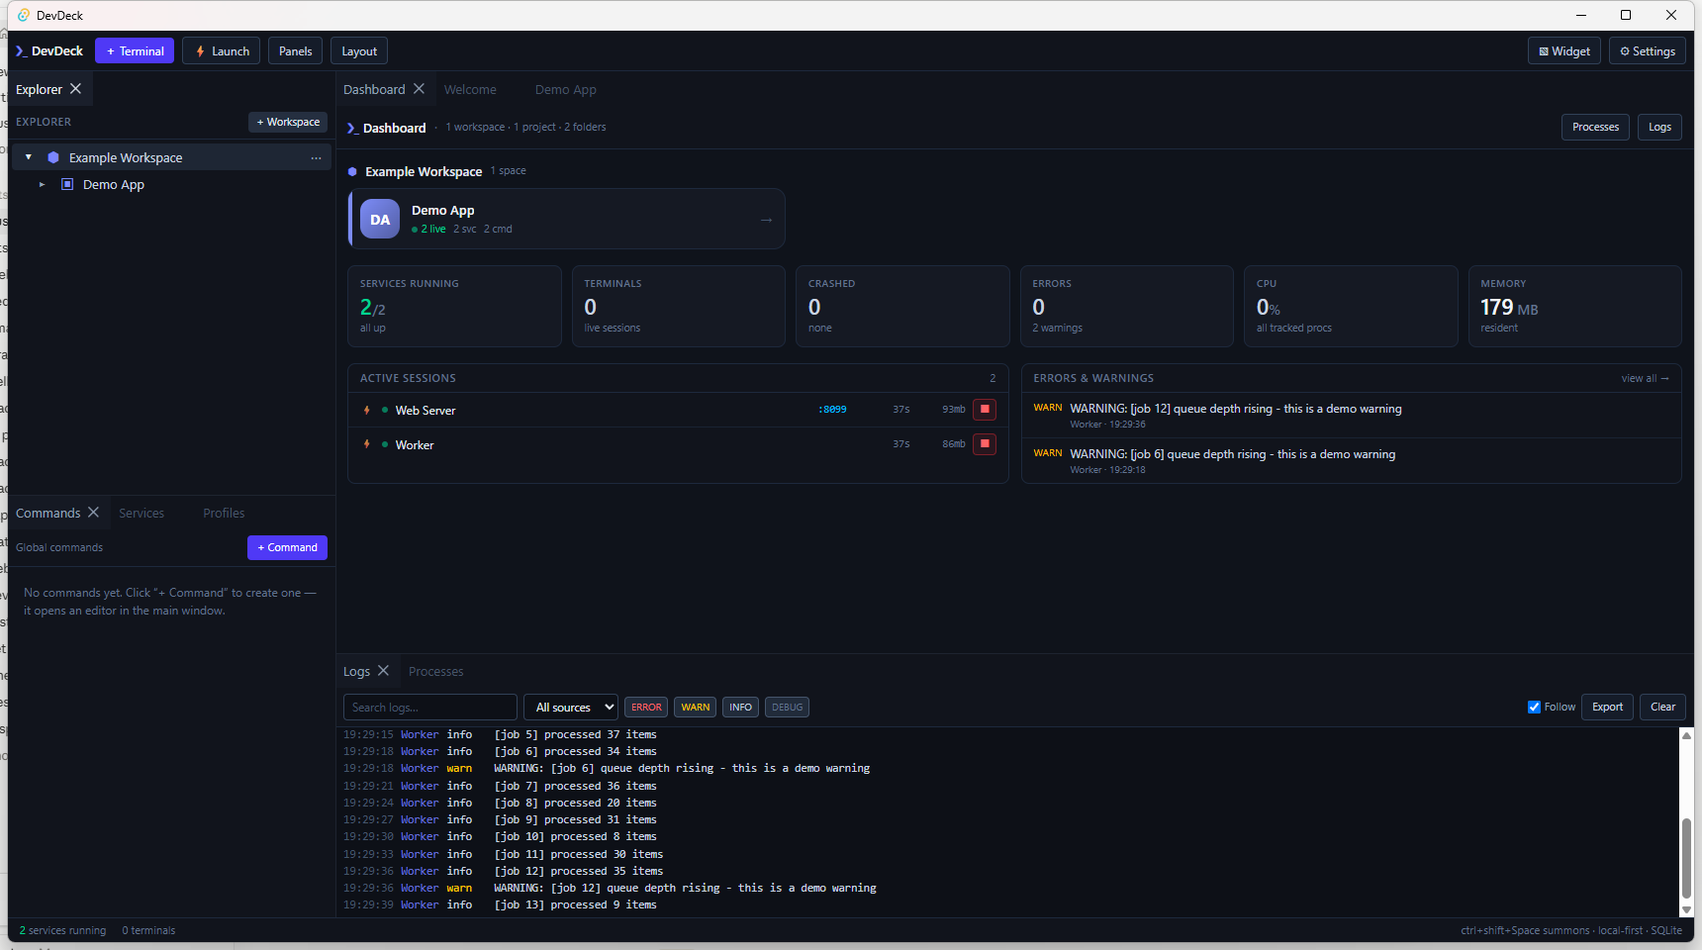
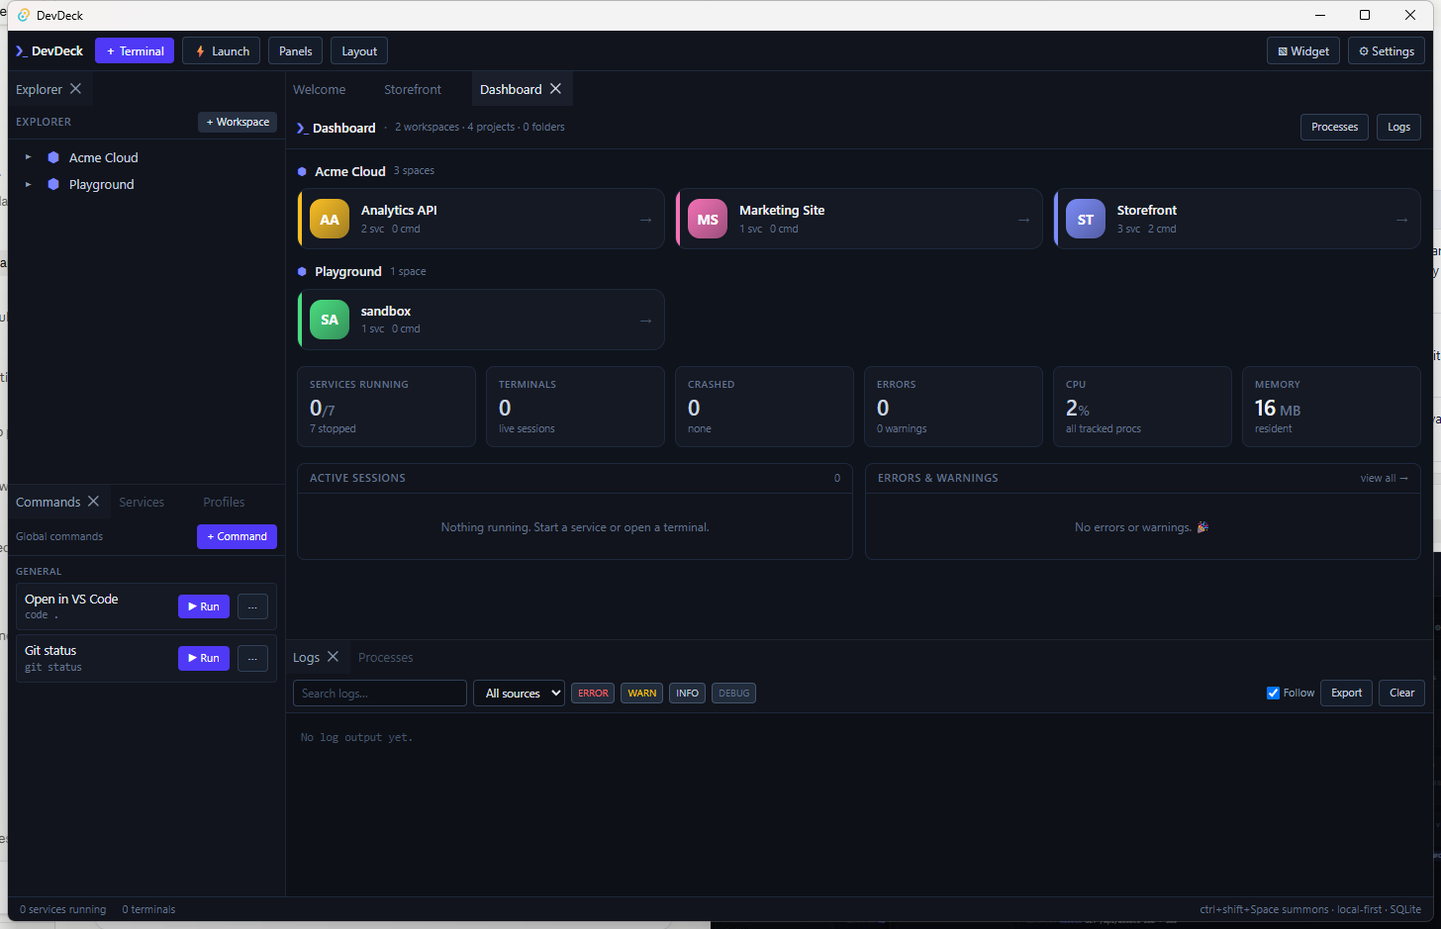
Website: replace demo data with generic Acme Cloud examples
Swap all x-platform references (TrackX, AssetX, SafeX, pnpm dev:*) for a
neutral real-world dataset: an "Acme Cloud" company with a Storefront
(Web/API/Worker), Marketing Site and Analytics API. Recapture the dashboard,
space page and widget screenshots from the app running on this demo data,
and update the animated demo + static mockup + alt text to match.

diff --git a/website/demo.html b/website/demo.html
@@ -184,7 +184,7 @@
 
     <div class="dock">
       <div class="dt">Welcome</div>
-      <div class="dt" id="dt-trackx">TrackX <span class="x">✕</span></div>
+      <div class="dt" id="dt-trackx">Storefront <span class="x">✕</span></div>
       <div class="dt act" id="dt-dash">Dashboard <span class="x">✕</span></div>
     </div>
 
@@ -192,9 +192,10 @@
       <div class="left">
         <div class="lp">
           <div class="lph"><span class="t">Explorer</span><span class="addbtn">+ Workspace</span></div>
-          <div class="node"><span style="color:#556;font-size:10px">▾</span><span class="sw"></span>Local Dev</div>
-          <div class="node" style="padding-left:20px"><span style="color:#556;font-size:10px">▸</span><span class="sw" style="background:#f5b63d"></span>TrackX</div>
-          <div class="node" style="padding-left:20px"><span style="color:#556;font-size:10px">▸</span><span class="sw" style="background:#7C8CF8"></span>paperclip-v3-phase-2</div>
+          <div class="node"><span style="color:#556;font-size:10px">▾</span><span class="sw"></span>Acme Cloud</div>
+          <div class="node" style="padding-left:20px"><span style="color:#556;font-size:10px">▸</span><span class="sw" style="background:#7C8CF8"></span>Storefront</div>
+          <div class="node" style="padding-left:20px"><span style="color:#556;font-size:10px">▸</span><span class="sw" style="background:#F472B6"></span>Marketing Site</div>
+          <div class="node" style="padding-left:20px"><span style="color:#556;font-size:10px">▸</span><span class="sw" style="background:#FBBF24"></span>Analytics API</div>
         </div>
         <div class="lpanels">
           <div class="ltabs"><span class="a">Commands</span><span>Services</span><span>Profiles</span></div>
@@ -214,14 +215,14 @@
         <div class="main">
           <!-- Dashboard -->
           <div class="screen on" id="scr-dash">
-            <div class="dhead"><b>❯ Dashboard</b><span class="sub">· 1 workspace · 2 projects · 1 folder</span><span class="r"><span>Processes</span><span>Logs</span></span></div>
-            <p class="lbl"><span class="sw" style="width:9px;height:9px;border-radius:50%;background:#7C8CF8"></span>Local Dev · 2 spaces</p>
+            <div class="dhead"><b>❯ Dashboard</b><span class="sub">· 2 workspaces · 4 projects</span><span class="r"><span>Processes</span><span>Logs</span></span></div>
+            <p class="lbl"><span class="sw" style="width:9px;height:9px;border-radius:50%;background:#7C8CF8"></span>Acme Cloud · 3 spaces</p>
             <div class="spaces">
-              <div class="space hi" id="sp-trackx"><div class="av" style="background:linear-gradient(150deg,#f7c948,#e8951f)">TR</div><div><h4>TrackX <span class="badge">★ MOST USED</span></h4><p>9 svc · 1 cmd</p></div><span class="ar">→</span></div>
-              <div class="space"><div class="av" style="background:linear-gradient(150deg,#8b8bf5,#5b57d8);color:#fff">PV</div><div><h4>paperclip-v3-phase-2</h4><p>1 svc · 0 cmd</p></div><span class="ar">→</span></div>
+              <div class="space hi" id="sp-trackx"><div class="av" style="background:linear-gradient(150deg,#8b8bf5,#5b57d8);color:#fff">ST</div><div><h4>Storefront <span class="badge">★ MOST USED</span></h4><p>3 svc · 2 cmd</p></div><span class="ar">→</span></div>
+              <div class="space"><div class="av" style="background:linear-gradient(150deg,#f7c948,#e8951f)">AA</div><div><h4>Analytics API</h4><p>2 svc · 0 cmd</p></div><span class="ar">→</span></div>
             </div>
             <div class="stats">
-              <div class="stat"><div class="k">Services running</div><div class="v" id="dst-run">0<small>/10</small></div><div class="s" id="dst-runs">10 stopped</div></div>
+              <div class="stat"><div class="k">Services running</div><div class="v" id="dst-run">0<small>/7</small></div><div class="s" id="dst-runs">7 stopped</div></div>
               <div class="stat"><div class="k">Terminals</div><div class="v">0</div><div class="s">live sessions</div></div>
               <div class="stat"><div class="k">Crashed</div><div class="v">0</div><div class="s">none</div></div>
               <div class="stat"><div class="k">Errors</div><div class="v">0</div><div class="s">0 warnings</div></div>
@@ -231,8 +232,8 @@
             <div class="panels2">
               <div class="pnl"><div class="h"><span>Active sessions</span><span id="dst-cnt">0</span></div>
                 <div id="dsempty" class="empty">Nothing running. Start a service or open a terminal.</div>
-                <div class="sess" id="dss1"><span class="wdot g"></span><span style="font-size:12px;font-weight:600">AssetX</span><span style="font-size:10.5px;color:#f5b63d">TrackX</span><span class="chip" style="margin-left:auto"><span class="d"></span>:3001</span></div>
-                <div class="sess" id="dss2"><span class="wdot g"></span><span style="font-size:12px;font-weight:600">TrackX Config</span><span style="font-size:10.5px;color:#f5b63d">TrackX</span><span class="chip" style="margin-left:auto"><span class="d"></span>:8080</span></div>
+                <div class="sess" id="dss1"><span class="wdot g"></span><span style="font-size:12px;font-weight:600">Web</span><span style="font-size:10.5px;color:#7C8CF8">Storefront</span><span class="chip" style="margin-left:auto"><span class="d"></span>:3000</span></div>
+                <div class="sess" id="dss2"><span class="wdot g"></span><span style="font-size:12px;font-weight:600">API</span><span style="font-size:10.5px;color:#7C8CF8">Storefront</span><span class="chip" style="margin-left:auto"><span class="d"></span>:4000</span></div>
               </div>
               <div class="pnl"><div class="h"><span>Errors &amp; warnings</span><span>view all</span></div><div class="empty">No errors or warnings 🎉</div></div>
             </div>
@@ -240,22 +241,20 @@
 
           <!-- Space page -->
           <div class="screen" id="scr-space">
-            <div class="shead"><div class="av">TR</div><div><div class="ey">TrackX</div><h3>TrackX</h3><div class="pa mono">c:\code\trackx\x-platform ✎</div></div>
+            <div class="shead"><div class="av" style="background:linear-gradient(150deg,#8b8bf5,#5b57d8)">ST</div><div><div class="ey">Storefront</div><h3>Storefront</h3><div class="pa mono">C:/code/acme-cloud/storefront ✎</div></div>
               <div class="r"><span class="sbtn">❯ Terminal</span><span class="sbtn gold" id="startall">▶ Start all</span><span class="sbtn">⚙ Setup</span></div></div>
             <div class="spills">
-              <div class="spill"><div class="v" id="sp-run">0<small>/9</small></div><div class="k">Running</div></div>
-              <div class="spill"><div class="v">9</div><div class="k">Services</div></div>
-              <div class="spill"><div class="v">1</div><div class="k">Commands</div></div>
+              <div class="spill"><div class="v" id="sp-run">0<small>/3</small></div><div class="k">Running</div></div>
+              <div class="spill"><div class="v">3</div><div class="k">Services</div></div>
+              <div class="spill"><div class="v">2</div><div class="k">Commands</div></div>
               <div class="spill"><div class="v">0</div><div class="k">Profiles</div></div>
-              <div class="spill"><div class="v">1</div><div class="k">Folders</div></div>
+              <div class="spill"><div class="v">0</div><div class="k">Folders</div></div>
               <div class="spill"><div class="v" id="sp-sess">0</div><div class="k">Sessions</div></div>
             </div>
-            <div class="stabs"><span class="a">Services 9</span><span>Commands 1</span><span>Profiles 0</span></div>
-            <div class="svc" id="sv0"><span class="ck"></span><span class="sd"></span><div><div class="nm">AssetX (web-app)</div><div class="cmd mono">pnpm dev:assetx</div></div><span class="act">▶ Start</span></div>
-            <div class="svc" id="sv1"><span class="ck"></span><span class="sd"></span><div><div class="nm">SafeX (web-app)</div><div class="cmd mono">pnpm dev:safex</div></div><span class="act">▶ Start</span></div>
-            <div class="svc" id="sv2"><span class="ck"></span><span class="sd"></span><div><div class="nm">TrackX Config</div><div class="cmd mono">pnpm dev:trackx</div></div><span class="act">▶ Start</span></div>
-            <div class="svc" id="sv3"><span class="ck"></span><span class="sd"></span><div><div class="nm">TrackX CRM</div><div class="cmd mono">pnpm dev:crm</div></div><span class="act">▶ Start</span></div>
-            <div class="svc" id="sv4"><span class="ck"></span><span class="sd"></span><div><div class="nm">TrackX Admin</div><div class="cmd mono">pnpm dev:admin</div></div><span class="act">▶ Start</span></div>
+            <div class="stabs"><span class="a">Services 3</span><span>Commands 2</span><span>Profiles 0</span></div>
+            <div class="svc" id="sv0"><span class="ck"></span><span class="sd"></span><div><div class="nm">Web</div><div class="cmd mono">npm run dev</div></div><span class="act">▶ Start</span></div>
+            <div class="svc" id="sv1"><span class="ck"></span><span class="sd"></span><div><div class="nm">API</div><div class="cmd mono">npm run dev:api</div></div><span class="act">▶ Start</span></div>
+            <div class="svc" id="sv2"><span class="ck"></span><span class="sd"></span><div><div class="nm">Worker</div><div class="cmd mono">npm run worker</div></div><span class="act">▶ Start</span></div>
           </div>
         </div>
 
@@ -264,11 +263,11 @@
             <span class="ldtools"><span class="pill2" style="background:rgba(248,113,113,.18);color:#F87171">ERROR</span><span class="pill2" style="background:rgba(251,191,36,.18);color:#FBBF24">WARN</span><span class="pill2" style="background:rgba(109,106,240,.18);color:#b9c0ff">INFO</span><span style="font-size:10.5px;color:#647089">☑ Follow</span></span></div>
           <div class="logbody" id="logbody">
             <div id="logempty" style="color:#647089">No log output yet.</div>
-            <div class="lg" id="l0"><span class="t">12:04:01</span> <span class="s" style="color:#7C8CF8">AssetX</span>  server listening on :3001</div>
-            <div class="lg" id="l1"><span class="t">12:04:02</span> <span class="s" style="color:#4ADE80">Config</span>  loaded 42 keys from config store</div>
-            <div class="lg" id="l2"><span class="t">12:04:03</span> <span class="s" style="color:#7C8CF8">AssetX</span>  GET /api/assets 200 · 14ms</div>
-            <div class="lg" id="l3"><span class="t">12:04:05</span> <span class="s" style="color:#FBBF24">SafeX</span>   <span class="warn">warn: token cache miss, refetching</span></div>
-            <div class="lg" id="l4"><span class="t">12:04:06</span> <span class="s" style="color:#7C8CF8">AssetX</span>  GET /api/assets 200 · 9ms</div>
+            <div class="lg" id="l0"><span class="t">12:04:01</span> <span class="s" style="color:#7C8CF8">Web</span>     ready on http://localhost:3000</div>
+            <div class="lg" id="l1"><span class="t">12:04:02</span> <span class="s" style="color:#4ADE80">API</span>     listening on :4000</div>
+            <div class="lg" id="l2"><span class="t">12:04:03</span> <span class="s" style="color:#7C8CF8">Web</span>     GET /api/products 200 · 14ms</div>
+            <div class="lg" id="l3"><span class="t">12:04:05</span> <span class="s" style="color:#FBBF24">Worker</span>  <span class="warn">warn: queue depth rising (42)</span></div>
+            <div class="lg" id="l4"><span class="t">12:04:06</span> <span class="s" style="color:#7C8CF8">Web</span>     GET /api/products 200 · 9ms</div>
           </div>
         </div>
       </div>
@@ -280,10 +279,10 @@
     <div class="kbd" id="kbd"><kbd>Ctrl</kbd>+<kbd>Shift</kbd>+<kbd>Space</kbd></div>
     <div class="toast" id="toast"><span class="d"></span><span id="toasttxt">Detected vite on :5173</span></div>
     <div class="widget" id="widget">
-      <div class="whead"><div class="wb">▢</div><div class="wt"><b>Sessions</b><span id="wcount">3 running</span></div><div class="wb a">⤢</div></div>
+      <div class="whead"><div class="wb">▢</div><div class="wt"><b>Sessions</b><span id="wcount">2 running</span></div><div class="wb a">⤢</div></div>
       <div class="wbody">
-        <div class="wcard" id="w0" style="box-shadow:inset 3px 0 0 #f5b63d"><div class="mn"><div class="wr1"><span class="wdot g"></span><span class="wnm">AssetX</span><span class="wup">12m</span></div><div class="wr2"><span style="color:#f5b63d;font-weight:600">TrackX</span><span class="chip"><span class="d"></span>:3001</span><span style="color:#647089">2%</span></div></div><div style="display:flex;gap:4px"><span class="wact">🌐</span><span class="wact" style="color:#F87171;background:rgba(248,113,113,.14)">■</span></div></div>
-        <div class="wcard" id="w1" style="box-shadow:inset 3px 0 0 #7C8CF8"><div class="mn"><div class="wr1"><span class="wdot g"></span><span class="wnm">TrackX Config</span><span class="wup">11m</span></div><div class="wr2"><span style="color:#7C8CF8;font-weight:600">TrackX</span><span class="chip"><span class="d"></span>:8080</span><span style="color:#647089">1%</span></div></div><div style="display:flex;gap:4px"><span class="wact">🌐</span><span class="wact" style="color:#F87171;background:rgba(248,113,113,.14)">■</span></div></div>
+        <div class="wcard" id="w0" style="box-shadow:inset 3px 0 0 #7C8CF8"><div class="mn"><div class="wr1"><span class="wdot g"></span><span class="wnm">Web</span><span class="wup">12m</span></div><div class="wr2"><span style="color:#7C8CF8;font-weight:600">Storefront</span><span class="chip"><span class="d"></span>:3000</span><span style="color:#647089">2%</span></div></div><div style="display:flex;gap:4px"><span class="wact">🌐</span><span class="wact" style="color:#F87171;background:rgba(248,113,113,.14)">■</span></div></div>
+        <div class="wcard" id="w1" style="box-shadow:inset 3px 0 0 #7C8CF8"><div class="mn"><div class="wr1"><span class="wdot g"></span><span class="wnm">API</span><span class="wup">11m</span></div><div class="wr2"><span style="color:#7C8CF8;font-weight:600">Storefront</span><span class="chip"><span class="d"></span>:4000</span><span style="color:#647089">1%</span></div></div><div style="display:flex;gap:4px"><span class="wact">🌐</span><span class="wact" style="color:#F87171;background:rgba(248,113,113,.14)">■</span></div></div>
         <div class="uhead" id="uhead"><b>Unassigned</b><span class="ln"></span><span style="font-size:9.5px;color:#647089">1</span></div>
         <div class="wcard det" id="w2" style="box-shadow:inset 3px 0 0 #38BDF8"><div class="mn"><div class="wr1"><span class="wdot d"></span><span class="wnm">web-app</span><span class="wup">6s</span></div><div class="wr2"><span style="color:#38BDF8;font-weight:600">vite</span><span class="mono" style="color:#8b93a1">:5173</span><span class="chip" style="background:rgba(56,189,248,.16);color:#38BDF8">→ web-app</span></div></div><div style="display:flex;gap:4px"><span class="wact">🌐</span><span class="wact">❯</span></div></div>
       </div>
@@ -308,9 +307,9 @@
   function reset(){
     timers.forEach(clearTimeout);timers=[];
     screen('scr-dash');tab('dash');
-    for(var i=0;i<5;i++){$('sv'+i).classList.remove('run');$('sv'+i).querySelector('.act').textContent='▶ Start'}
-    $('sp-run').innerHTML='0<small>/9</small>';$('sp-sess').textContent='0';
-    $('dst-run').innerHTML='0<small>/10</small>';$('dst-runs').textContent='10 stopped';$('dst-cpu').innerHTML='0<small>%</small>';$('dst-mem').innerHTML='16<small>MB</small>';$('dst-cnt').textContent='0';$('st-run').textContent='0';
+    for(var i=0;i<3;i++){$('sv'+i).classList.remove('run');$('sv'+i).querySelector('.act').textContent='▶ Start'}
+    $('sp-run').innerHTML='0<small>/3</small>';$('sp-sess').textContent='0';
+    $('dst-run').innerHTML='0<small>/7</small>';$('dst-runs').textContent='7 stopped';$('dst-cpu').innerHTML='0<small>%</small>';$('dst-mem').innerHTML='16<small>MB</small>';$('dst-cnt').textContent='0';$('st-run').textContent='0';
     $('dsempty').style.display='block';off('dss1');off('dss2');
     ['l0','l1','l2','l3','l4'].forEach(off);$('logempty').style.display='block';
     ['w0','w1','w2','uhead'].forEach(off);$('widget').classList.remove('on');$('toast').classList.remove('on');$('kbd').classList.remove('on');$('scrim').classList.remove('on');
@@ -321,7 +320,7 @@
     setCap('Your whole stack in one window','Every service, terminal and command — organised');
     at(300,function(){mc($('sp-trackx'))});
 
-    // open TrackX space
+    // open the Storefront space
     at(2600,function(){setCap('Open a space','Its services, commands and profiles in one place')});
     at(2800,function(){$('sp-trackx').style.transform='scale(.99)'});
     at(3050,function(){$('sp-trackx').style.transform='';screen('scr-space');tab('trackx');mc($('startall'))});
@@ -330,17 +329,17 @@
     at(4400,function(){setCap('Start the whole stack in one click','No six-terminal morning')});
     at(4600,function(){$('startall').style.transform='scale(.95)'});
     at(4820,function(){$('startall').style.transform=''});
-    var names=[0,1,2,3,4];
-    names.forEach(function(i,k){at(4900+k*360,function(){
+    var names=[0,1,2];
+    names.forEach(function(i,k){at(4900+k*380,function(){
       var s=$('sv'+i);s.classList.add('run');s.querySelector('.act').textContent='■ Stop';
-      var n=k+1;$('sp-run').innerHTML=n+'<small>/9</small>';$('sp-sess').textContent=n;$('st-run').textContent=n;
+      var n=k+1;$('sp-run').innerHTML=n+'<small>/3</small>';$('sp-sess').textContent=n;$('st-run').textContent=n;
     })});
     at(6800,function(){$('logempty').style.display='none';['l0','l1','l2','l3','l4'].forEach(function(id,k){at(k*260,function(){on(id)})})});
 
     // back to dashboard - live stats
     at(8600,function(){setCap('Live status across everything','CPU, memory, health, uptime — at a glance')});
     at(8800,function(){screen('scr-dash');tab('dash');mc($('dt-dash'));
-      $('dst-run').innerHTML='5<small>/10</small>';$('dst-runs').textContent='5 running';$('dst-cpu').innerHTML='12<small>%</small>';$('dst-mem').innerHTML='840<small>MB</small>';$('dst-cnt').textContent='2';
+      $('dst-run').innerHTML='3<small>/7</small>';$('dst-runs').textContent='3 running';$('dst-cpu').innerHTML='9<small>%</small>';$('dst-mem').innerHTML='612<small>MB</small>';$('dst-cnt').textContent='2';
       $('dsempty').style.display='none';on('dss1');at(180,function(){on('dss2')})});
 
     // widget
@@ -352,7 +351,7 @@
     // detect
     at(13900,function(){setCap('It catches servers you start elsewhere','A vite dev server — detected automatically')});
     at(14200,function(){$('toast').classList.add('on')});
-    at(14500,function(){on('uhead');on('w2');$('wcount').textContent='3 running · 1 detected'});
+    at(14500,function(){on('uhead');on('w2');$('wcount').textContent='2 running · 1 detected'});
     at(15900,function(){$('toast').classList.remove('on');mc($('w2'),88,-6)});
 
     at(16800,function(){setCap('One window. Everything running.','DevDeck — free & open source')});

diff --git a/website/index.html b/website/index.html
@@ -232,7 +232,7 @@
 
       <div class="shot">
         <div class="bar"><i></i><i></i><i></i><span>DevDeck — Dashboard</span></div>
-        <img src="assets/dashboard.png" alt="DevDeck dashboard showing the example workspace with two services running, live active sessions and a warnings feed" />
+        <img src="assets/dashboard.png" alt="DevDeck dashboard showing the Acme Cloud workspace with its spaces — Storefront, Marketing Site and Analytics API — plus live status cards" />
       </div>
     </div>
   </div>
@@ -336,7 +336,7 @@
       </div>
       <div class="shot" style="margin-top:0">
         <div class="bar"><i></i><i></i><i></i><span>Space — Demo App</span></div>
-        <img src="assets/space-running.png" alt="DevDeck space page for Demo App with both services running and live logs streaming" />
+        <img src="assets/space-running.png" alt="DevDeck space page for Storefront with its Web, API and Worker services and a Start all button" />
       </div>
     </div>
   </section>
@@ -361,7 +361,7 @@
       </div>
       <div class="shot" style="margin-top:0">
         <div class="bar"><i></i><i></i><i></i><span>Command Widget</span></div>
-        <img src="assets/widget-over-app.png" alt="The DevDeck command widget floating on top of the main window, showing two running services" />
+        <img src="assets/widget-over-app.png" alt="The DevDeck command widget floating over the app, showing a searchable palette of the Acme Cloud commands and services" />
       </div>
     </div>
   </section>
@@ -396,8 +396,8 @@
 
             <div style="display:flex;align-items:center;gap:9px;padding:9px 10px 9px 12px;border-radius:12px;background:rgba(255,255,255,0.03);border:1px solid rgba(255,255,255,0.07);box-shadow:inset 3px 0 0 #7C8CF8">
               <div style="flex:1;min-width:0;display:flex;flex-direction:column;gap:4px">
-                <div style="display:flex;align-items:center;gap:6px"><span class="dot" style="width:8px;height:8px"></span><span style="font-weight:600;color:#E7EAF0">AssetX</span><span style="flex:1"></span><span class="mono" style="font-size:12px;color:#8b93a1">12m</span></div>
-                <div style="display:flex;align-items:center;gap:7px;font-size:12px"><span style="font-weight:600;color:#7C8CF8">TrackX</span><span style="display:inline-flex;align-items:center;gap:4px;padding:1px 6px;border-radius:5px;background:rgba(74,222,128,0.14);color:#4ADE80;font-size:11px;font-weight:600"><span style="width:5px;height:5px;border-radius:50%;background:#4ADE80"></span>:3001</span><span style="color:#64748b">2%</span><span style="color:#64748b">96MB</span></div>
+                <div style="display:flex;align-items:center;gap:6px"><span class="dot" style="width:8px;height:8px"></span><span style="font-weight:600;color:#E7EAF0">Web</span><span style="flex:1"></span><span class="mono" style="font-size:12px;color:#8b93a1">12m</span></div>
+                <div style="display:flex;align-items:center;gap:7px;font-size:12px"><span style="font-weight:600;color:#7C8CF8">Storefront</span><span style="display:inline-flex;align-items:center;gap:4px;padding:1px 6px;border-radius:5px;background:rgba(74,222,128,0.14);color:#4ADE80;font-size:11px;font-weight:600"><span style="width:5px;height:5px;border-radius:50%;background:#4ADE80"></span>:3000</span><span style="color:#64748b">2%</span><span style="color:#64748b">96MB</span></div>
               </div>
               <div style="display:flex;gap:5px"><span style="width:26px;height:26px;border-radius:8px;background:rgba(255,255,255,0.05);display:flex;align-items:center;justify-content:center;color:#9BA3B2">🌐</span><span style="width:26px;height:26px;border-radius:8px;background:rgba(248,113,113,0.14);display:flex;align-items:center;justify-content:center;color:#F87171">■</span></div>
             </div>
@@ -405,7 +405,7 @@
             <div style="display:flex;align-items:center;gap:9px;padding:9px 10px 9px 12px;border-radius:12px;background:rgba(255,255,255,0.03);border:1px solid rgba(255,255,255,0.07);box-shadow:inset 3px 0 0 #4ADE80">
               <div style="flex:1;min-width:0;display:flex;flex-direction:column;gap:4px">
                 <div style="display:flex;align-items:center;gap:6px"><span class="dot" style="width:8px;height:8px"></span><span style="font-weight:600;color:#E7EAF0">Worker</span><span style="flex:1"></span><span class="mono" style="font-size:12px;color:#8b93a1">1h 4m</span></div>
-                <div style="display:flex;align-items:center;gap:7px;font-size:12px"><span style="font-weight:600;color:#4ADE80">SafeX Backend</span><span style="color:#64748b">5%</span><span style="color:#64748b">142MB</span></div>
+                <div style="display:flex;align-items:center;gap:7px;font-size:12px"><span style="font-weight:600;color:#4ADE80">Storefront</span><span style="color:#64748b">5%</span><span style="color:#64748b">142MB</span></div>
               </div>
               <div style="display:flex;gap:5px"><span style="width:26px;height:26px;border-radius:8px;background:rgba(255,255,255,0.05);display:flex;align-items:center;justify-content:center;color:#9BA3B2">❯</span><span style="width:26px;height:26px;border-radius:8px;background:rgba(248,113,113,0.14);display:flex;align-items:center;justify-content:center;color:#F87171">■</span></div>
             </div>
